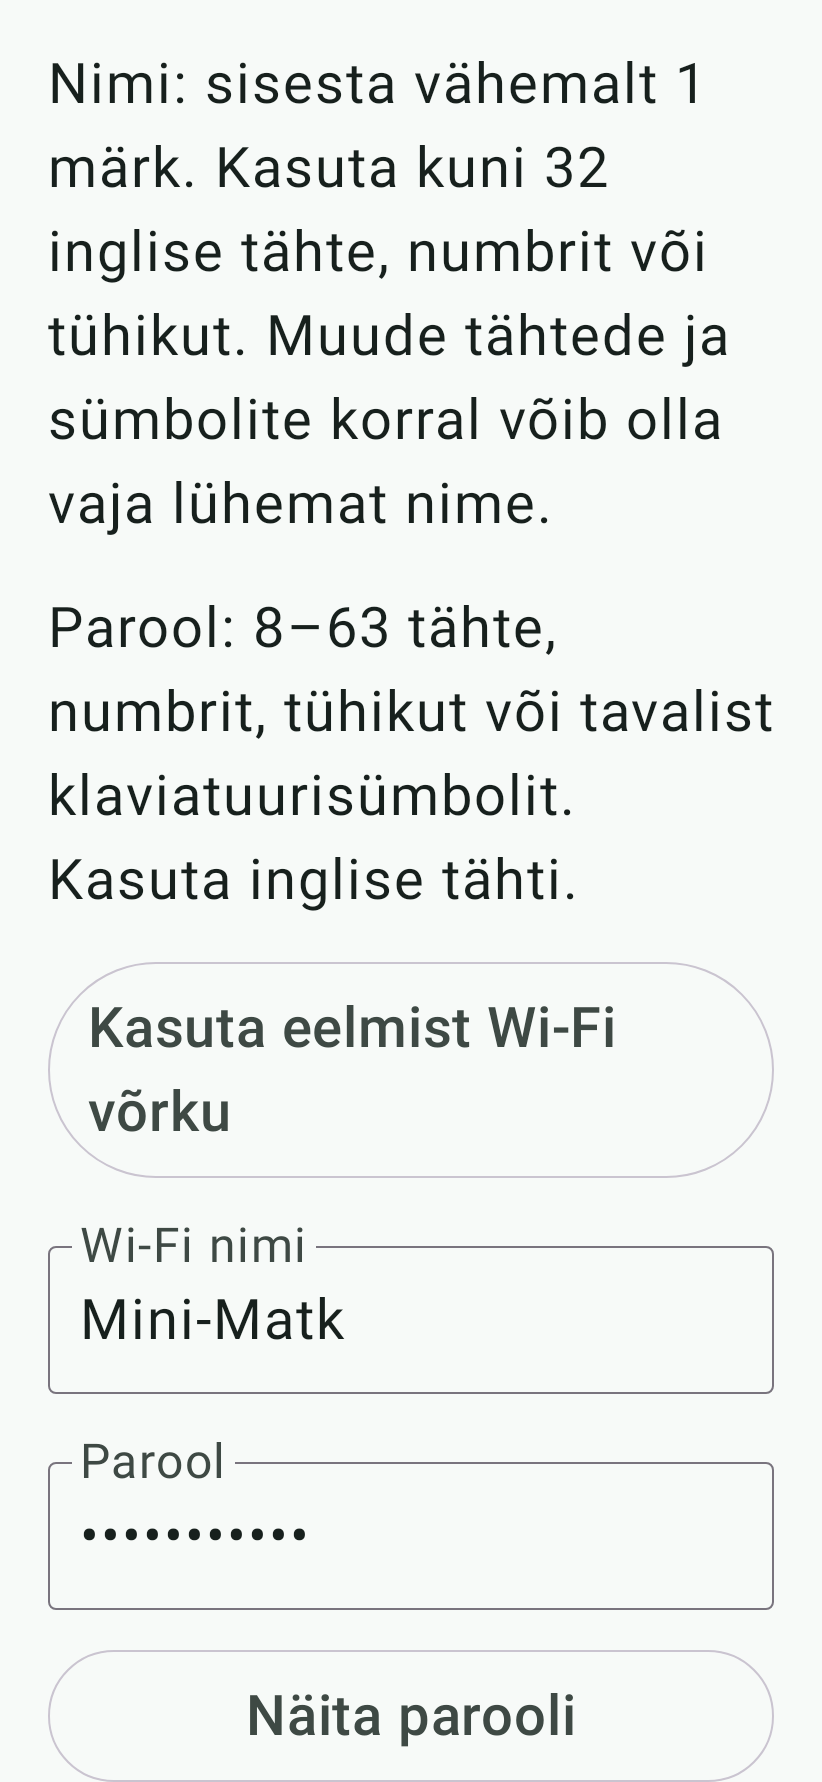
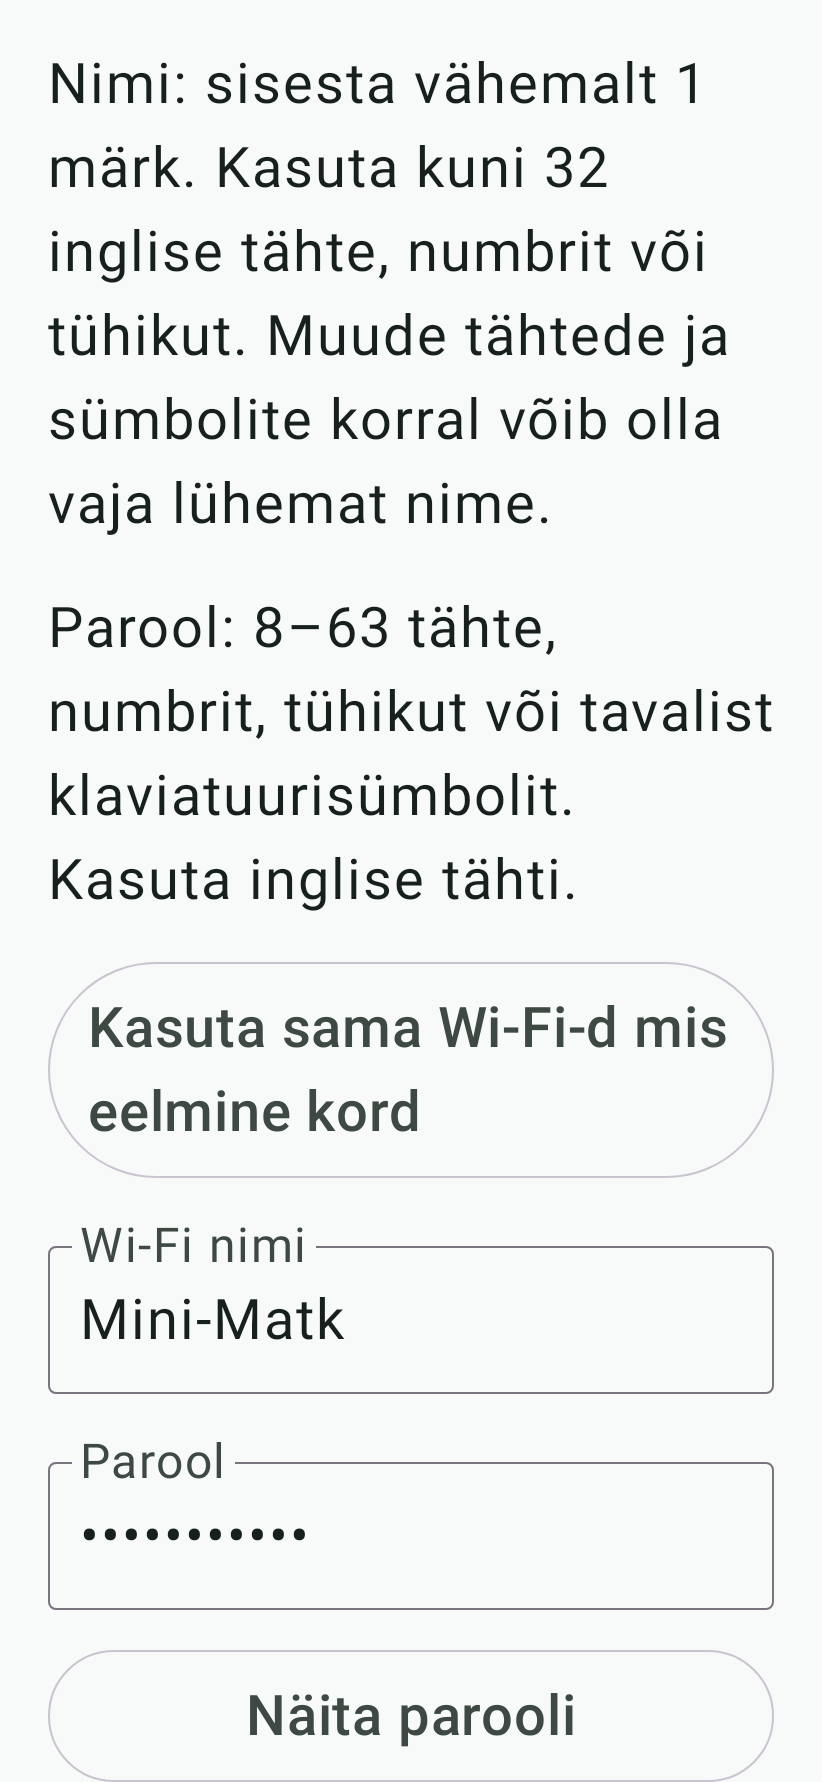
Owner Estonian wording; prepare v0.2.0
- et: „Wi-Fi sees, parooliga“ / „Sinu enda Wi-Fi nimi ja parool.“ /
  „Kasuta sama Wi-Fi-d mis eelmine kord“ (owner decision 2026-10-20),
  quoted button names updated, Estonian screenshots re-recorded
- ARCHITECTURE: reset help shows reason + Check again when checking stops
- version code 3 / 0.2.0, changelogs 3.txt (en, et), README, ROADMAP

Changed region(s): [[0.3345, 0.5556, 0.882, 0.5864], [0.0912, 0.6173, 0.517, 0.6481]]

diff --git a/docs/TRANSLATION-et.md b/docs/TRANSLATION-et.md
@@ -32,11 +32,11 @@ English and Estonian, and `locales_config.xml` lists both for per-app selection.
 | Reset | Lähtesta / lähtestamine | Physical reset, distinct from restart. |
 | Restart | Taaskäivitu / taaskäivitumine | Does not imply removing saved settings. |
 | Wi-Fi off | Wi-Fi väljas | State label; action is “Lülita Wi-Fi välja”. |
-| Wi-Fi on with password | Parooliga Wi-Fi | Short choice label; confirmation explicitly says “sisse”. |
+| Wi-Fi on with password | Wi-Fi sees, parooliga | Owner wording, 2026-10-20. The confirmation still says “sisse”. |
 | Wi-Fi name | Wi-Fi nimi | Avoids SSID in the main interface. |
 | Password | Parool | Consistent in form, result, instructions and store text. |
 | Show / hide password | Näita parooli / Peida parool | Explicit actions, no ambiguous toggle label. |
-| Use the same Wi-Fi as last time | Kasuta eelmist Wi-Fi võrku | Short label for reusing the saved name and password. |
+| Use the same Wi-Fi as last time | Kasuta sama Wi-Fi-d mis eelmine kord | Owner wording, 2026-10-20. Reuses the saved name and password. |
 | Connect | Ühenda | Physical connection or the illustrated Android action. |
 | Join STARLINK | Liitu STARLINKiga | Keeps the network name and adds the normal Estonian case ending. |
 | Join on this phone | Liitu selles telefonis | The action happens on this phone; it does not join the phone. |
@@ -66,8 +66,6 @@ Branding remains **Mini Wi-Fi Switch** in both the UI and store title.
   unfamiliar to first-time users. The guide explains both the physical action and
   the loss of the saved Wi-Fi name/password. Alternative: **Taasta tehaseseaded**,
   which is longer.
-- **Parooliga Wi-Fi** keeps the main choice compact. It drops the literal “on”
-  there; the confirmation and action use **Lülita Wi-Fi sisse** explicitly.
 - **Võrguadapter**, **kaablipesa** and **internetipesa** avoid Ethernet/port jargon.
   Confirm these match how the intended field users describe their equipment.
 - **Inglise tähed** follows the final English input rules. It means letters without
@@ -81,7 +79,9 @@ Branding remains **Mini Wi-Fi Switch** in both the UI and store title.
 
 The supplied reviewer corrections were applied in fix cycle 1, including
 phone-local joining, explicit completed-step labels, cable direction and consistent
-wording. The shortened Ready choice explanations remain unchanged. The owner
+wording. The owner decided on 2026-10-20: the secure choice is **Wi-Fi sees, parooliga**
+with **Sinu enda Wi-Fi nimi ja parool.**, and the saved-profile button is
+**Kasuta sama Wi-Fi-d mis eelmine kord**. The owner
 wording questions above remain available for review.
 
 ## Screenshot coverage

diff --git a/README.md b/README.md
@@ -7,7 +7,7 @@ An open-source Android app that switches a **Starlink Mini** between two field m
 | **Wi-Fi off** (bypass) | Built-in Wi-Fi and router are off. The Ethernet port hands one wired device an internet address straight from Starlink. | Semi-permanent spot where you want a small RF footprint. |
 | **Secure Wi-Fi** | Built-in router on, Wi-Fi with your own name and password. | Quick stop: power bank in, phone or laptop on Wi-Fi, pack up. |
 
-> **Status: pre-release v0.1.1.** The app shows whether the Mini is ready, turns Wi-Fi off, and turns Wi-Fi on with a password and a QR code. When Android asks, tap Save, and the phone then joins that Wi-Fi by itself (on some phones you approve a notification instead). Picture guides, a Quick Settings tile, and offline reset help are included. The home screen now shows a quick status for a set-up Mini. These app flows are not yet hardware-tested end to end: Wi-Fi off and Wi-Fi on via the app, joining the new Wi-Fi, and the 3-person acceptance test. Download the APK from [GitHub Releases](https://github.com/paat/sl-mini-wifi-switch/releases). To get updates automatically, add the GitHub repo in Obtainium and enable pre-releases.
+> **Status: pre-release v0.2.0.** The app is available in Estonian, and after a reset it shows Ready to set up. The app shows whether the Mini is ready, turns Wi-Fi off, and turns Wi-Fi on with a password and a QR code. When Android asks, tap Save, and the phone then joins that Wi-Fi by itself (on some phones you approve a notification instead). Picture guides, a Quick Settings tile, and offline reset help are included. The home screen now shows a quick status for a set-up Mini. These app flows are not yet hardware-tested end to end: Wi-Fi off and Wi-Fi on via the app, joining the new Wi-Fi, and the 3-person acceptance test. Download the APK from [GitHub Releases](https://github.com/paat/sl-mini-wifi-switch/releases). To get updates automatically, add the GitHub repo in Obtainium and enable pre-releases.
 
 ## Install
 

diff --git a/docs/ARCHITECTURE.md b/docs/ARCHITECTURE.md
@@ -143,15 +143,15 @@ Home retains its three-minute restart deadline, including across stop/start;
 NotFound ends Home polling and offers Check again. Eligible Reset help continues
 polling every 3 seconds even after NotFound, until navigation or backgrounding.
 Its waiting text stays at the top without recreating the scrollable column when
-observations change. Reset help has only Back, which preserves its origin.
+observations change. When automatic checking has stopped, Reset help shows the reason and Check again. Back preserves its origin.
 Guide step changes start at the top, including Back and alternate paths.
 Home keeps restart waiting prominent without a Start here reset action while polling.
 The Start here pages remain offline and do not start network work.
 
 SetupPending Home says **Ready to set up** and explains that the Mini was reset.
 Its two large choices explain cable-only use or a Wi-Fi name/password; Details is
-a small secondary action. Start here, Reset help, Check again and the read-only
-footer are absent in this state.
+a small secondary action. Start here, Reset help and the read-only
+footer are absent in this state. Check again appears when automatic checking has stopped.
 
 All illustrations are project-drawn bundled vectors, animated as separate vector
 layers. The reset press holds for three seconds; the illustrative light sequence

diff --git a/docs/ROADMAP.md b/docs/ROADMAP.md
@@ -128,7 +128,8 @@ Tick tasks as they land. Each milestone ends in a working build; see the definit
 - [x] Signed release builds via GitHub Releases
 - [x] Make the repository public
 - [x] v0.1.0 pre-release published (tag v0.1.0)
-- [ ] v0.1.1 pre-release published (tag v0.1.1)
+- [x] v0.1.1 pre-release published (tag v0.1.1)
+- [ ] v0.2.0 pre-release published (tag v0.2.0)
 
 ## Open questions
 
